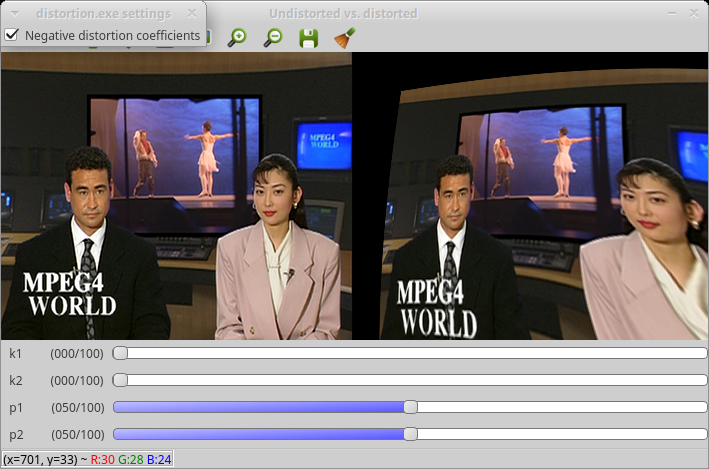
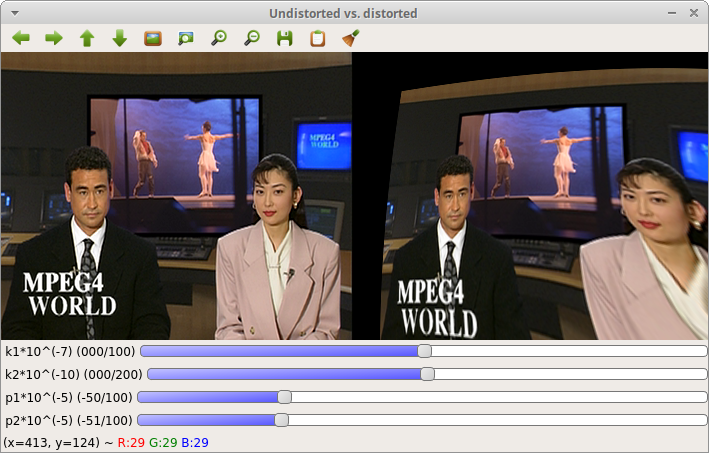
Allow independent negative coefficients and improve formatting

diff --git a/camera_models/distortion.cpp b/camera_models/distortion.cpp
@@ -1,5 +1,5 @@
 //Illustration of non-linear lense distortion
-// Andreas Unterweger, 2017-2019
+// Andreas Unterweger, 2017-2020
 //This code is licensed under the 3-Clause BSD License. See LICENSE file for details.
 
 #include <iostream>
@@ -17,17 +17,37 @@ using namespace cv;
 
 using namespace imgutils;
 
+struct distortion_coefficient
+{
+  const string name;
+  const int scaling_factor;
+  
+  int value;
+  
+  distortion_coefficient(const string &name, const double scaling_factor) 
+   : name(name), scaling_factor(scaling_factor),
+     value(0) { }
+  
+  double GetCoefficientValue() const
+  {
+    return value * pow(10, scaling_factor);
+  }
+};
+
+static constexpr auto number_of_coefficients = 4; //Number of coefficients supported by the undistort function below
+
 struct distortion_data
 {
   const Mat image;
-  int k1, k2, p1, p2;
-  bool negative_coefficients;
+  array<distortion_coefficient, number_of_coefficients> distortion_coefficients {distortion_coefficient("k1", -7),
+                                                                                 distortion_coefficient("k2", -10),
+                                                                                 distortion_coefficient("p1", -5),
+                                                                                 distortion_coefficient("p2", -5)};
   
   const string window_name;
   
   distortion_data(const Mat &image, const string &window_name)
    : image(image),
-     k1(0), k2(0), p1(0), p2(0), negative_coefficients(false),
      window_name(window_name) { }
 };
 
@@ -39,34 +59,56 @@ static Mat GetStandardCameraMatrix(Size2i image_size)
   return camera_matrix;
 }
 
+template<size_t... Is>
+static constexpr array<double, sizeof...(Is)> GetCoefficientArray(const array<distortion_coefficient, sizeof...(Is)> &coeffs, const index_sequence<Is...>&)
+{
+  return {{ coeffs[Is].GetCoefficientValue()... }}; //Continued in this pattern for every available index/coefficient
+}
+
+static array<double, number_of_coefficients> GetCoefficients(const array<distortion_coefficient, number_of_coefficients> &coeffs)
+{
+  return GetCoefficientArray(coeffs, make_index_sequence<number_of_coefficients>{}); //Create coefficients by iterating through all (coefficient) array indices
+}
+
 static void ShowDistortedImages(const int, void * const user_data)
 {
   auto &data = *((const distortion_data * const)user_data);
   const Mat &image = data.image;
-  const array<double, 4> distortion_vector { data.k1 * 1e-7, data.k2 * 1e-10, data.p1 * 1e-5, data.p2 * 1e-5 }; //TODO: Display scaling factors
+  const auto distortion_vector = GetCoefficients(data.distortion_coefficients);
   const auto standard_camera_matrix = GetStandardCameraMatrix(image.size());
   Mat distorted_image;
-  if (data.negative_coefficients) //TODO: Is there a (working!) distort function (unlike the one in the fisheye namespace) which actually inverts the process?
-    undistort(image, distorted_image, standard_camera_matrix, -Mat(distortion_vector));
-  else
-    undistort(image, distorted_image, standard_camera_matrix, distortion_vector);
+  undistort(image, distorted_image, standard_camera_matrix, distortion_vector);
   const Mat combined_image = CombineImages({image, distorted_image}, Horizontal);
   imshow(data.window_name, combined_image);
 }
 
-static const char *AddControls(distortion_data &data)
+static string GetTrackbarTitle(const distortion_coefficient &coeff)
 {
-  createTrackbar("k1", data.window_name, &data.k1, 100, ShowDistortedImages, (void*)&data);
-  createTrackbar("k2", data.window_name, &data.k2, 100, ShowDistortedImages, (void*)&data);
-  createTrackbar("p1", data.window_name, &data.p1, 100, ShowDistortedImages, (void*)&data);
-  createTrackbar("p2", data.window_name, &data.p2, 100, ShowDistortedImages, (void*)&data);
-  createButton("Negative distortion coefficients", [](const int state, void * const user_data)
-                                                     {
-                                                       auto &data = *((distortion_data * const)user_data);
-                                                       data.negative_coefficients = state != 0;
-                                                       ShowDistortedImages(state, user_data);
-                                                     }, (void*)&data, QT_CHECKBOX);
-  return "k1";
+  return coeff.name + "*10^(" + to_string(coeff.scaling_factor) + ")";
+}
+
+static string AddControls(distortion_data &data)
+{
+  constexpr auto max_negative_value = 100;
+  constexpr auto max_positive_value = 100;
+  
+  for (auto &coeff : data.distortion_coefficients)
+  {
+    const auto title = GetTrackbarTitle(coeff);
+    createTrackbar(title, data.window_name, &coeff.value, max_negative_value + max_positive_value, ShowDistortedImages, (void*)&data);
+    setTrackbarMin(title, data.window_name, -max_negative_value);
+    setTrackbarMax(title, data.window_name, max_positive_value);
+  }
+  createButton("Reset", [](const int, void * const user_data)
+                          {
+                            auto &data = *((distortion_data * const)user_data);
+                            for (auto &coeff : data.distortion_coefficients)
+                            {
+                              const auto title = GetTrackbarTitle(coeff);
+                              setTrackbarPos(title, data.window_name, 0);
+                            }
+                          }, (void*)&data, QT_PUSH_BUTTON);
+  return GetTrackbarTitle(data.distortion_coefficients[0]);
 }
 
 static void ShowImages(const Mat &image)
@@ -76,7 +118,7 @@ static void ShowImages(const Mat &image)
   moveWindow(window_name, 0, 0);
   static distortion_data data(image, window_name); //Make variable global so that it is not destroyed after the function returns (for the variable is needed later)
   const auto main_parameter_trackbar_name = AddControls(data);
-  setTrackbarPos(main_parameter_trackbar_name, window_name, 50); //Implies imshow with k1 = 5e-6
+  setTrackbarPos(main_parameter_trackbar_name, window_name, 50); //Implies imshow with 50% of the first coefficient set
 }
 
 int main(const int argc, const char * const argv[])

diff --git a/camera_models/distortion_readme.md b/camera_models/distortion_readme.md
@@ -5,7 +5,7 @@ Non-linear distortion
 
 **Author**: Andreas Unterweger
 
-**Status**: Work in progress (internal bugs unfixed and features missing)
+**Status**: Done
 
 Overview
 --------
@@ -24,16 +24,15 @@ Change the distortion coefficients (see parameters below) to see the distorted i
 Available actions
 -----------------
 
-None
+* **Reset** (button): Sets all coefficients to zero (0).
 
 Interactive parameters
 ----------------------
 
-* **k1** (track bar in the *Undistorted vs. distorted* window): Allows changing the quadratic radial distortion coefficient between -100 (for negative coefficients) and 100 with a scaling factor of 10^(-7).
-* **k2** (track bar in the *Undistorted vs. distorted* window): Allows changing the quartic (bi-quadratic) radial distortion coefficient between -100 (for negative coefficients) and 100 with a scaling factor of 10^(-10).
-* **p1** (track bar in the *Undistorted vs. distorted* window): Allows changing the quadratic tangential distortion coefficient between -100 (for negative coefficients) and 100 with a scaling factor of 10^(-5).
-* **p2** (track bar in the *Undistorted vs. distorted* window): Allows changing the linear tangential distortion coefficient between -100 (for negative coefficients) and 100 with a scaling factor of 10^(-5).
-* **Negative distortion coefficients** (check box): Allows setting all distortion coefficients to their negative counterparts, e.g., 10 to -10, if checked.
+* **k1*10^(-7)** (track bar in the *Undistorted vs. distorted* window): Allows changing the quadratic radial distortion coefficient between -100 and 100 with a scaling factor of 10^(-7).
+* **k2*10^(-10)** (track bar in the *Undistorted vs. distorted* window): Allows changing the quartic (bi-quadratic) radial distortion coefficient between -100 and 100 with a scaling factor of 10^(-10).
+* **p1*10^(-5)** (track bar in the *Undistorted vs. distorted* window): Allows changing the quadratic tangential distortion coefficient between -100 and 100 with a scaling factor of 10^(-5).
+* **p2*10^(-5)** (track bar in the *Undistorted vs. distorted* window): Allows changing the linear tangential distortion coefficient between -100 and 100 with a scaling factor of 10^(-5).
 
 Program parameters
 ------------------
@@ -43,17 +42,20 @@ Program parameters
 Hard-coded parameters
 ---------------------
 
-None. *Note: The scaling factors for the coefficients are hard-coded, but the range of meaningful values is very limited. Thus, it is not recommended to change the scaling factors explicitly.*
+* `max_negative_value` (local to `AddControls`): Absolute value of the minimum coefficient value that can be set via the trackbars
+* `max_positive_value` (local to `AddControls`): The maximum coefficient value that can be set via the trackbars
+
+*Note: The scaling factors for the coefficients are hard-coded, but the range of meaningful values is very limited. Thus, it is not recommended to change the scaling factors explicitly.*
 
 Known issues
 ------------
 
-* **Use of `undistort`**: The `undistort` function is used instead of a `distort` function to calculate the distorted image, potentially showing incorrect results. There is a `distortPoints` function in *OpenCV's* `fisheye` namespace, but its use is unclear (see [*OpenCV* issue #10947](https://github.com/opencv/opencv/issues/10947)).
+* **Use of `undistort`**: The `undistort` function is used instead of a `distort` function to calculate the distorted image, potentially showing incorrect results. However, the current implementation illustrates the basic effect of the parameters well enough in principle.
 
 Missing features
 ----------------
 
-* **Scaling factors are not displayed**: The naming convention of the distortion coefficients follows that of [*OpenCV*'s model parameters](https://docs.opencv.org/3.4.0/d9/d0c/group__calib3d.html) and does not explicitly show the scaling factors.
+None
 
 License
 -------
